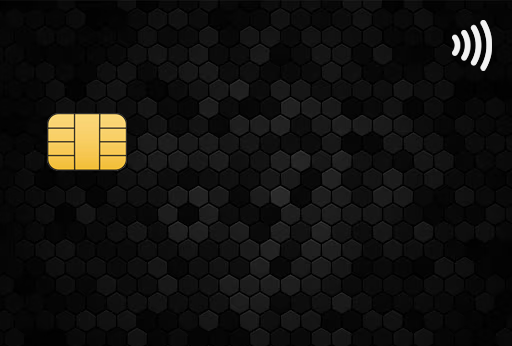
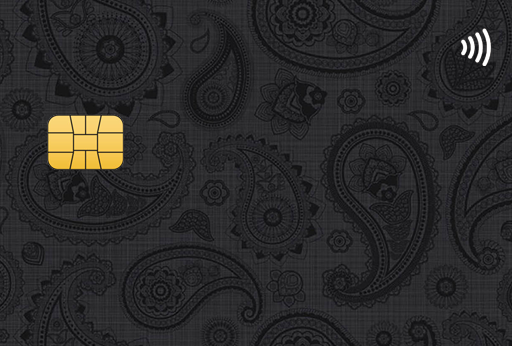
added more skins

diff --git a/src/constants/skins/index.ts b/src/constants/skins/index.ts
@@ -1,4 +1,4 @@
-import { blackCard, blueCard, greenCard, lightPinkCard, pinkCard, yellowCard } from "@app/assets";
+import { blackCard, blueCard, giftCard, greenCard, lightPinkCard, piggyBankCard, pinkCard, spaceCard, travelCard, yellowCard } from "@app/assets";
 import { Skin } from "./types";
 
 export const skins: Record<number, Skin> = {
@@ -44,4 +44,32 @@ export const skins: Record<number, Skin> = {
     secondaryTextColor: "rgba(255, 255, 255, .6)",
     balancePlacement: "right-10 top-[30%]"
   },
+  7: {
+    id: 7,
+    image: travelCard,
+    primaryTextColor: "#FFFFFF",
+    secondaryTextColor: "rgba(255, 255, 255, .6)",
+    balancePlacement: "right-10 top-[32%]"
+  },
+  8: {
+    id: 8,
+    image: giftCard,
+    primaryTextColor: "#FFFFFF",
+    secondaryTextColor: "rgba(255, 255, 255, .6)",
+    balancePlacement: "right-10 top-[32%]"
+  },
+  9: {
+    id: 9,
+    image: piggyBankCard,
+    primaryTextColor: "#FFFFFF",
+    secondaryTextColor: "rgba(255, 255, 255, .6)",
+    balancePlacement: "right-10 top-[32%]"
+  },
+  10: {
+    id: 10,
+    image: spaceCard,
+    primaryTextColor: "#FFFFFF",
+    secondaryTextColor: "rgba(255, 255, 255, .8)",
+    balancePlacement: "right-10 top-[32%]"
+  }
 };

diff --git a/src/components/AccountCard/index.tsx b/src/components/AccountCard/index.tsx
@@ -9,7 +9,7 @@ export function AccountCard(props: { skin: Skin }) {
   });
 
   return (
-    <div class="px-10 py-5 relative max-w-sm my-6 mx-auto rounded-[30px]" style={`background-image: url('${props.skin.image}'); color: ${props.skin.primaryTextColor}; aspect-ratio: 100/67; background-size: contain; background-position: center; background-repeat: no-repeat`}>
+    <div class="px-10 py-5 relative max-w-sm my-3 mx-auto rounded-[30px] shadow-md shadow-gray-700 dark:shadow-gray-200/20" style={`background-image: url('${props.skin.image}'); color: ${props.skin.primaryTextColor}; aspect-ratio: 100/67; background-size: cover; background-position: center; background-repeat: no-repeat`}>
       <div class="font-semibold text-xl">Primary Account</div>
       <div class={`absolute ${props.skin.balancePlacement}`}>
         <div class="flex flex-col">

diff --git a/src/assets/skins/index.ts b/src/assets/skins/index.ts
@@ -4,6 +4,10 @@ import greenCard from "./green_card.png";
 import pinkCard from "./pink_card.png";
 import yellowCard from "./yellow_card.png";
 import lightPinkCard from "./light_pink_card.png";
+import travelCard from "./travel_card.png";
+import giftCard from "./gift_card.png";
+import piggyBankCard from "./piggy_bank_card.png";
+import spaceCard from "./space_card.png";
 
 export {
   blackCard,
@@ -11,5 +15,9 @@ export {
   greenCard,
   pinkCard,
   yellowCard,
-  lightPinkCard
+  lightPinkCard,
+  travelCard,
+  giftCard,
+  piggyBankCard,
+  spaceCard
 };
